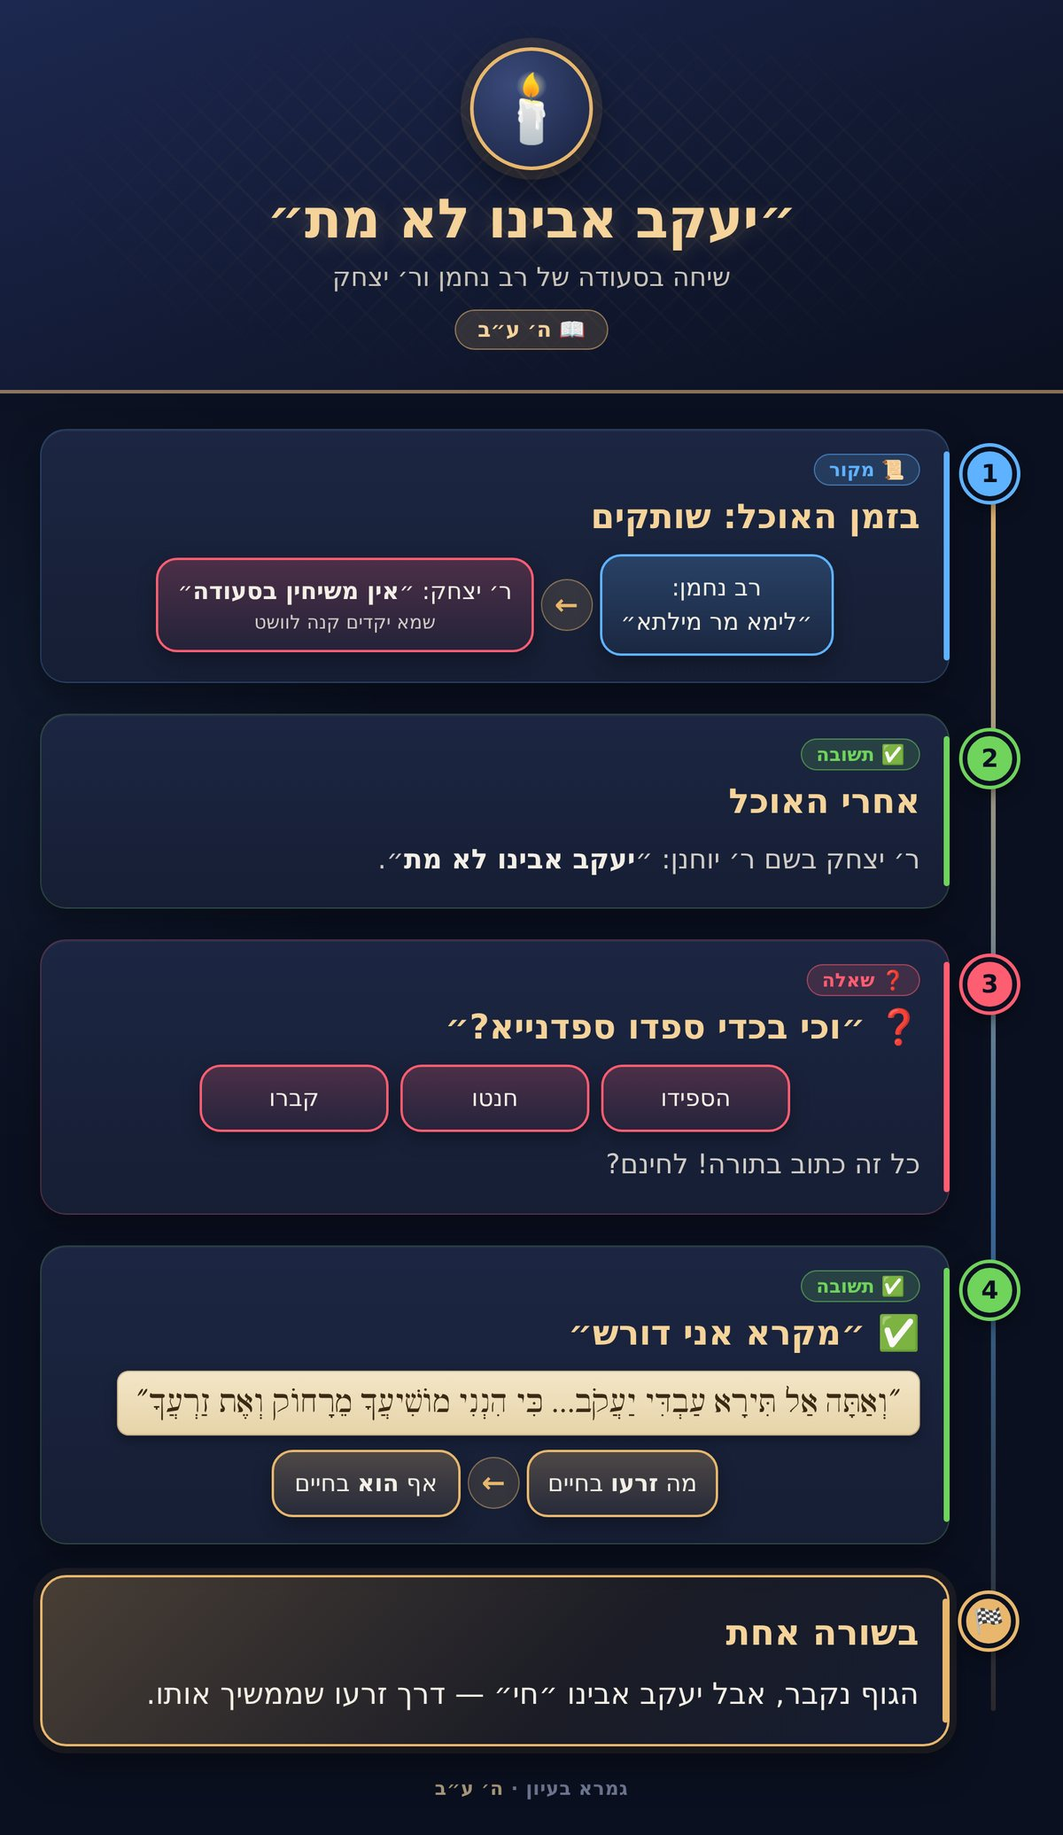
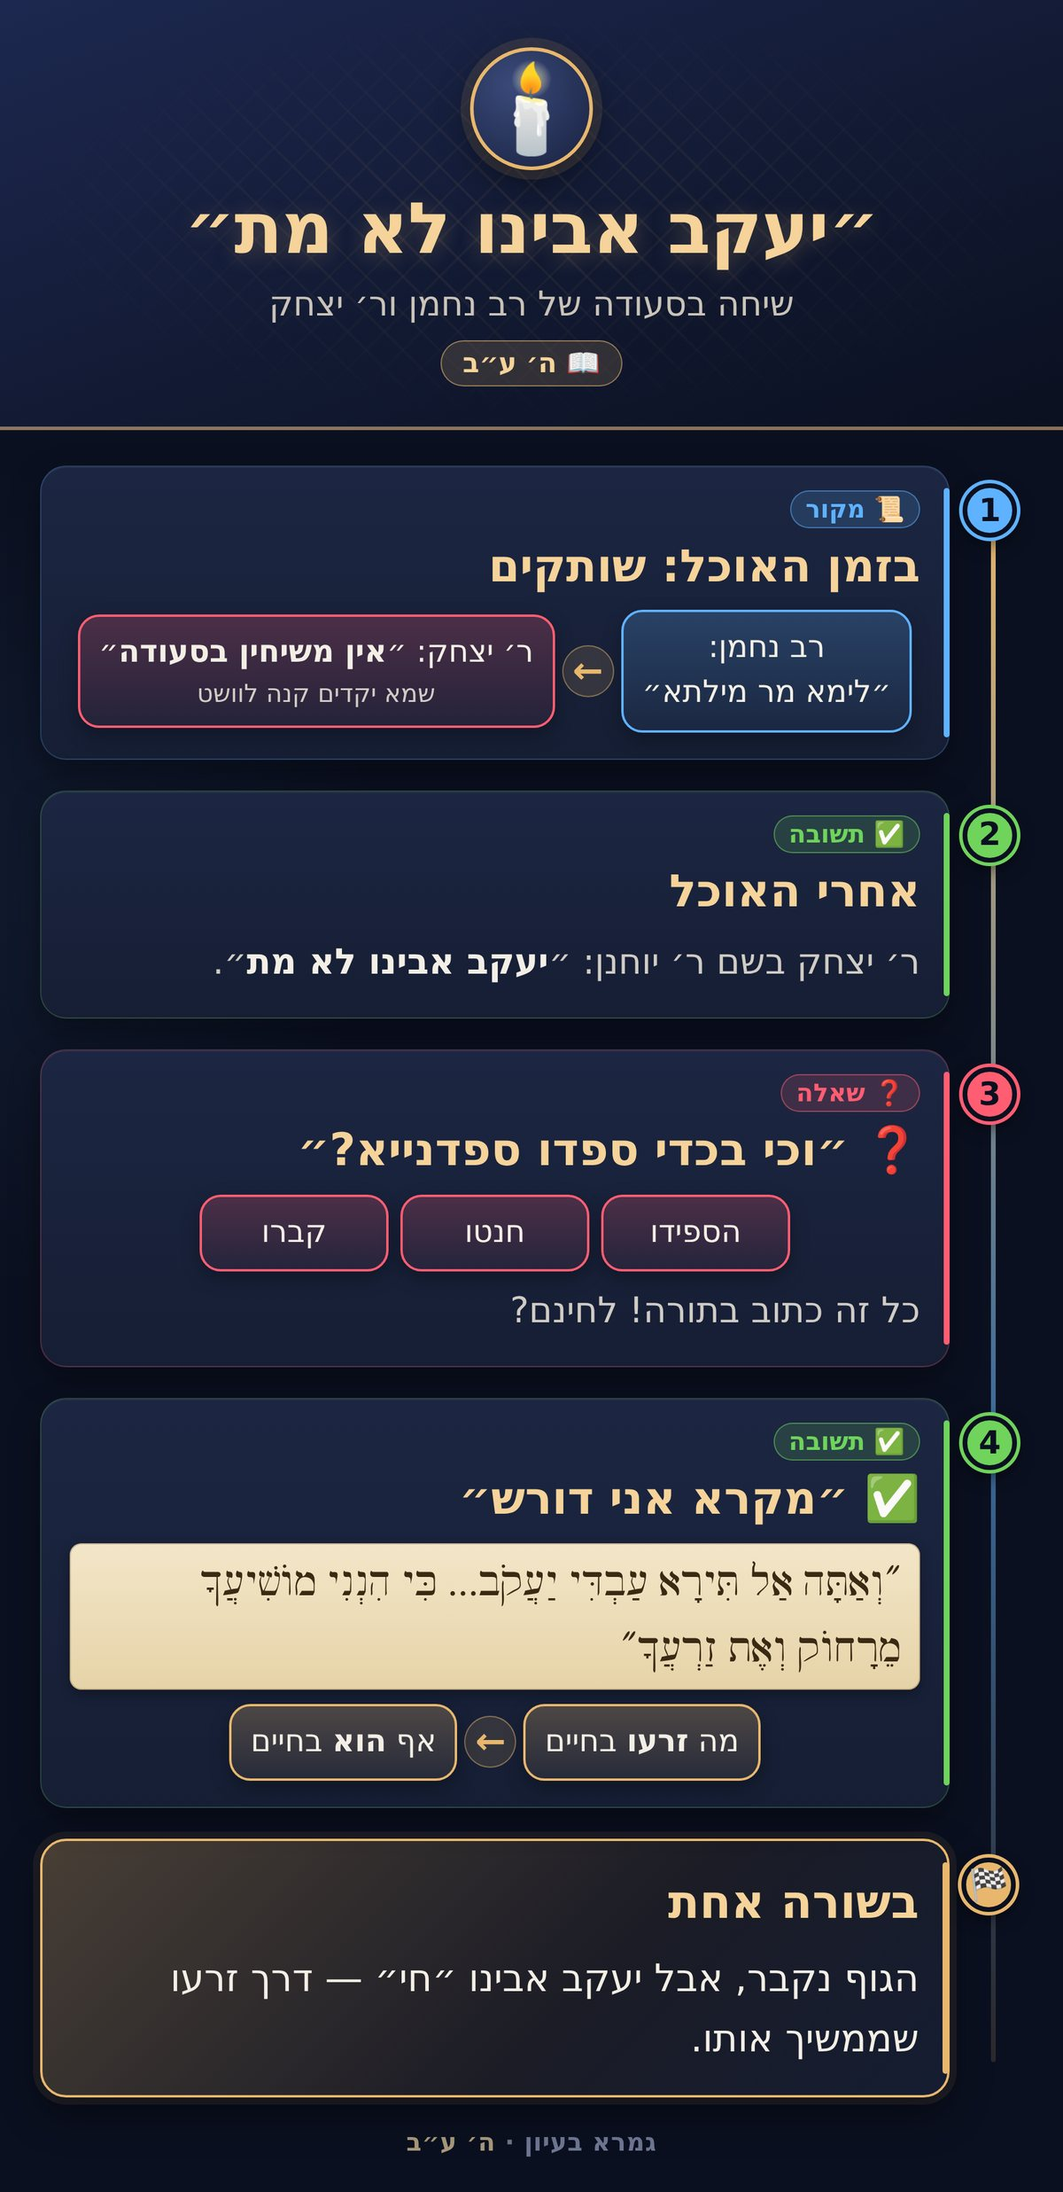
איורים: צביטה להגדלה ואותיות גדולות יותר
Claude-Session: https://claude.ai/code/session_01FELJGEZVtARXENqMAaEEkw

diff --git a/explain.js b/explain.js
@@ -20,12 +20,48 @@ function openExplain(n) {
     v.innerHTML = '<div class="ex-bar"><button type="button" class="ex-x" aria-label="סגור">✕</button><span class="ex-h"></span><button type="button" class="ex-z" aria-label="הגדלה">🔍</button></div><div class="ex-scroll"><img alt="הסבר מאויר"></div>';
     document.body.appendChild(v);
     v.querySelector('.ex-x').onclick = closeExplain;
-    v.querySelector('.ex-z').onclick = () => v.classList.toggle('zoom');
+    v.querySelector('.ex-z').onclick = () => exZoom(EXZ.z < 1.9 ? 2 : EXZ.z < 2.9 ? 3 : 1);
+    exPinchBind(v.querySelector('.ex-scroll'));
     document.addEventListener('keydown', e => { if (e.key === 'Escape' && v.classList.contains('on')) closeExplain(); });
   }
   v.querySelector('.ex-h').textContent = '🖼 ' + (EXPLAIN_TITLE[n] || 'הסבר מאויר');
   v.querySelector('img').src = `explain/${n}.jpg`;
-  v.classList.remove('zoom'); v.querySelector('.ex-scroll').scrollTop = 0;
+  exZoom(1); v.querySelector('.ex-scroll').scrollTop = 0;
   v.classList.add('on'); document.documentElement.classList.add('ex-open');
 }
 function closeExplain() { const v = document.getElementById('exView'); if (v) v.classList.remove('on'); document.documentElement.classList.remove('ex-open'); }
+
+// 🔍 הגדלה בצביטה (שתי אצבעות), הקשה כפולה, או הכפתור 🔍. רק התמונה גדלה, והנקודה שבין האצבעות נשארת במקומה.
+const EXZ = { z: 1 };
+function exZoom(z, cx, cy) {
+  const v = document.getElementById('exView'); if (!v) return;
+  const sc = v.querySelector('.ex-scroll'), img = sc.querySelector('img');
+  z = Math.max(1, Math.min(4, z));
+  const r = sc.getBoundingClientRect();
+  if (cx == null) { cx = r.left + r.width / 2; cy = r.top + r.height / 2; }
+  const px = sc.scrollLeft + (cx - r.left), py = sc.scrollTop + (cy - r.top), k = z / EXZ.z;
+  EXZ.z = z; img.style.width = (z * 100) + '%'; img.style.maxWidth = z > 1 ? 'none' : '';
+  sc.scrollLeft = px * k - (cx - r.left); sc.scrollTop = py * k - (cy - r.top);
+  v.classList.toggle('zoom', z > 1);
+  const b = v.querySelector('.ex-z'); if (b) b.textContent = z > 1 ? Math.round(z * 10) / 10 + '×' : '🔍';
+}
+function exPinchBind(sc) {
+  let d0 = 0, z0 = 1, lastTap = 0;
+  const dist = t => Math.hypot(t[0].clientX - t[1].clientX, t[0].clientY - t[1].clientY);
+  sc.addEventListener('touchstart', e => {
+    if (e.touches.length === 2) { d0 = dist(e.touches); z0 = EXZ.z; e.preventDefault(); }
+    else if (e.touches.length === 1) {
+      const now = Date.now(), t = e.touches[0];
+      if (now - lastTap < 300) { exZoom(EXZ.z > 1 ? 1 : 2.5, t.clientX, t.clientY); e.preventDefault(); lastTap = 0; } else lastTap = now;
+    }
+  }, { passive: false });
+  sc.addEventListener('touchmove', e => {
+    if (e.touches.length === 2 && d0) {
+      e.preventDefault();
+      const t = e.touches; exZoom(z0 * dist(t) / d0, (t[0].clientX + t[1].clientX) / 2, (t[0].clientY + t[1].clientY) / 2);
+    }
+  }, { passive: false });
+  sc.addEventListener('touchend', e => { if (e.touches.length < 2) d0 = 0; });
+  // מחשב: Ctrl + גלגלת (וגם צביטה במשטח מגע)
+  sc.addEventListener('wheel', e => { if (!e.ctrlKey) return; e.preventDefault(); exZoom(EXZ.z * (e.deltaY < 0 ? 1.15 : 1 / 1.15), e.clientX, e.clientY); }, { passive: false });
+}

diff --git a/theme.css b/theme.css
@@ -45,10 +45,9 @@ html { scrollbar-color: rgba(232,183,109,0.35) transparent; scrollbar-width: thi
   html.ex-open, html.ex-open body { overflow: hidden; }
   .ex-bar { display: flex; align-items: center; gap: 10px; padding: 10px 12px; border-bottom: 1px solid rgba(232,183,109,0.3); color: #f5d39a; font-weight: 800; font-size: 15px; }
   .ex-h { flex: 1; text-align: center; }
-  .ex-bar button { width: 40px; height: 40px; border-radius: 50%; border: 1px solid rgba(232,183,109,0.45); background: rgba(232,183,109,0.12); color: #f5d39a; font-size: 18px; cursor: pointer; }
-  .ex-scroll { flex: 1; overflow: auto; direction: ltr; -webkit-overflow-scrolling: touch; overscroll-behavior: contain; }
+  .ex-bar button { min-width: 40px; height: 40px; padding: 0 6px; border-radius: 20px; border: 1px solid rgba(232,183,109,0.45); background: rgba(232,183,109,0.12); color: #f5d39a; font-size: 18px; cursor: pointer; }
+  .ex-scroll { flex: 1; overflow: auto; direction: ltr; -webkit-overflow-scrolling: touch; overscroll-behavior: contain; touch-action: pan-x pan-y; }
   .ex-scroll img { display: block; width: 100%; max-width: 900px; margin: 0 auto; }
-  .ex-view.zoom .ex-scroll img { width: 200%; max-width: none; }
   .ex-view.zoom .ex-z { background: #e8b76d; color: #111829; }
 
 /* ♿ הגדרות נוחות (prefs.js) */

diff --git a/sw.js b/sw.js
@@ -2,7 +2,7 @@
 // קוד ונתונים (html/js/css): קודם מהרשת (תמיד הגרסה החדשה), ואם אין רשת — מהשמור.
 // תמונות (צילומי דף, איורים, אייקונים): קודם מהשמור, כי הן כמעט לא משתנות; מתעדכנות ברקע.
 // שינוי גדול במבנה, או שינוי של תמונה קיימת (חיתוך מחדש, שינוי מספור קטעים)? מעלים את VERSION — אחרת הטלפון יציג את התמונה הישנה מהשמור.
-const VERSION = 'v15';
+const VERSION = 'v16';
 const CORE = ['./', 'index.html', 'taanit.html', 'tree.html', 'words.html', 'theme.css', 'prefs.js', 'loader.js', 'explain.js',
   'data/common.js', 'data/taanit/index.js', 'data/taanit/words.js', 'manifest.webmanifest', 'icons/icon-192.png'];
 // רשימת הדפים הבנויים — מהמפה של המסכת (MAS), כך שאין צורך לעדכן כאן כשמוסיפים דף

diff --git a/tree.html b/tree.html
@@ -375,7 +375,7 @@
 <script src="data/common.js?v=1bb0ea65"></script>
 <script src="data/taanit/index.js?v=aab63d76"></script>
 <script src="loader.js?v=c847b339"></script>
-<script src="explain.js?v=f62dd961"></script>
+<script src="explain.js?v=621d9d7f"></script>
 <script>
 const ROLE = { m: ['📜', 'משנה / מקור'], q: ['❓', 'שאלה'], x: ['⚡', 'דחייה'], a: ['✅', 'תירוץ'], c: ['📌', 'מסקנה'], n: ['📖', 'סיפור / ראיה'], k: ['💡', 'הסבר'] };
 const COL = { m: '#5fb2ff', q: '#ff5d72', x: '#ff5d72', a: '#6fd35c', c: '#ffc94d', n: '#d7b26e', k: '#b296ff' };

diff --git a/taanit.html b/taanit.html
@@ -1887,7 +1887,7 @@
 <script src="data/common.js?v=1bb0ea65"></script>
 <script src="data/taanit/index.js?v=aab63d76"></script>
 <script src="loader.js?v=c847b339"></script>
-<script src="explain.js?v=f62dd961"></script>
+<script src="explain.js?v=621d9d7f"></script>
 <script>
 // =======================================================
 // PEREK DATA — מסכת תענית

diff --git a/.claude/tools/explain/build.py b/.claude/tools/explain/build.py
@@ -11,7 +11,11 @@ pages = dict(E)
 from exlib import upgrade_raw
 for f in glob.glob(os.path.join(H, 'raw', '*.html')): pages[os.path.basename(f)[:-5]] = upgrade_raw(open(f, encoding='utf-8').read())
 names = sys.argv[1:] or list(pages)
-for n in names: open(os.path.join(OUT, n + '.html'), 'w', encoding='utf-8').write(pages[n])
+import re
+# 🔠 אותיות גדולות יותר (המשתמש: ״זה קטן״): כל font-size בפיקסלים ×1.3, רוחב הדף נשאר 900
+FS = 1.3
+big = lambda h: re.sub(r'font-size:\s*(\d+(?:\.\d+)?)px', lambda m: f'font-size:{round(float(m.group(1)) * FS)}px', h)
+for n in names: open(os.path.join(OUT, n + '.html'), 'w', encoding='utf-8').write(big(pages[n]))
 js = """const { chromium } = require('playwright'); const [D, ...names] = process.argv.slice(2);
 (async () => { const b = await chromium.launch(); const p = await b.newPage({ viewport: { width: 900, height: 1000 }, deviceScaleFactor: 2 });
   for (const n of names) { await p.goto('file://' + D + '/' + n + '.html'); await p.waitForTimeout(300); await p.screenshot({ path: D + '/' + n + '.png', fullPage: true }); }

diff --git a/.claude/CLAUDE.md b/.claude/CLAUDE.md
@@ -52,7 +52,7 @@
    - **עץ הסוגיה** (`tree.html`): מפה גדולה שזזה (גרירה, צביטה, גלגלת), צמתים לפי תפקיד, וסדר ״תירוץ ראשון/שני״. למעלה יש פס ״📍 איפה אנחנו״: הדף, הסוגיה (N מתוך M), הקטע, על מה הסוגיה מדברת (SUGYA_TOPIC), המסלול מהשורש לשלב הנבחר, ותמונה קטנה של הדף עם המקום מסומן (DAF_SRC מחבילת הדף). לחיצה על צומת פותחת חלונית, ובה **הצילום עם המילים המודגשות, צמוד למעלה ותמיד גלוי** (`sh-pin`, ממורכז על הסימון ב־`shImgFocus`), ומתחתיו **סרגל לשוניות קבוע** (`toolbar`): 🎯 בתכלס (וגם ״מה עונים על זה״), 🧭 ההקשר, 📜 בגמרא (PUNCT), 🔤 מילה במילה (WBW+WDICT), 💡 מונחים (KEY_TERMS). הלשונית האחרונה שנבחרה נזכרת (`gemara:shtab`). החלונית היא **תריס בשלושה גבהים** (`sheetSize`): פס דק (peek), חצי מסך (half, ברירת מחדל) ומסך מלא (full). גוררים את הידית או את שורת הכותרת, החלונית עוקבת אחרי האצבע ונעצרת בגובה הקרוב. הנפה מהירה עוברת שלב. הקשה על הידית: פס→פתוח, חצי→מלא, מלא→חצי. יש כפתור ⬆/⬇ בכותרת. **התריס יורד לבד רק בגרירה אמיתית של העץ (24px ומעלה) או בצביטה, לא בנגיעה**. הגובה שנבחר נזכר (`gemara:shsize`). כשהחלונית פתוחה, פס ״איפה אנחנו״ מתכווץ לשורה אחת, ו־`centerOn` ממרכז את הצומת בשטח הגלוי שבין הפס לחלונית. הנתונים מגיעים מ־`TX` (loader.js), מחבילת הדף (data/<מסכת>/<ref>.js). יש גם כפתור לקטע ב־taanit. יש גם מצב ״סיפור הסוגיה״ עם אנימציה.
    - **👥 אנשים (״זרוע״ לכל אמורא)** (`people-data.js` → `PEOPLE[ref]`): המשתמש אמר ״כל מה שקשה לי זה שמות, ואם הם סותרים את עצמם״. בעץ יש פס **״👥 מי כאן״** שמתחלף לבד לפי הסוגיה שעל המסך. לחיצה על שם מדליקה רק את הצמתים שלו, ומציירת **זרוע**: קו בצבע שלו שעובר בין כל מה שאמר, ו־⚡ מכל משפט שלו אל הקושיה שפוגעת בו. נפתח **כרטיס**: 🧠 מה הוא סובר · 🗣 מה אמר (①②③, לחיצה קופצת לצומת, גם בדף אחר) · ⚡ מה מקשים עליו (״סותר את עצמו? ① מול ②״, תירוצים שנפלו ❌, והתשובה ✅/❌/ℹ) · 🏁 בשורה התחתונה. על כל צומת יש עיגול קטן עם ראשי התיבות של מי שמדבר, ו־⚡ על קושיה נגדו. בחלונית של צומת: שורה ״⚡ סתירה בדברי ר׳ יוחנן ② מול ①״ / ״✅ מיישב את...״, וכל שם בטקסט לחיץ (`linkNames`). בדף הלימוד, בכל כרטיס של קושיה: ״⚡ סתירה בדברי X: ① ״...״ ⟷ ② ״...״״, עם קישור ל־`tree.html#ref@id`.
    - **🖥 גרסת מחשב** (מ־1100px; בדף הבית מ־1000px): בדף הלימוד הקטע הוא grid — **הצילום צמוד בטור הימני** (sticky, כמעט כל גובה המסך) וההסבר בטור השמאלי. `isDesk()`. החץ יוצא מהקצה הימני של הכרטיס, עובר ברווח שבין הטורים ונכנס לצילום (`drawArrow`, `side`). קו הקריאה של scrollSpy = 36% מגובה המסך. בעץ, החלונית היא **לוח צד משמאל** (רוחב min(500px,40vw), בלי תריס/גבהים), ו־`centerOn`/`personFit` ממרכזים בשטח שמימין לה (`sideW()`). דף הבית: המסכתות זו ליד זו. **כל שינוי לטלפון — לבדוק גם ב־1440×900.**
-   - **🖼 הסבר מאויר לכל סוגיה מסובכת** (המשתמש: ״לכל סוגיה מסובכת תבנה את הדבר הזה״): תמונה ארוכה בסגנון כהה עם שלבים ממוספרים (שאלה אדום, תשובה ירוק, דחייה כתום, מקור כחול), צירי זמן (שבח זהב / בקשה כחול), ״מראה״ של שני צדדים, טבלאות, שרשרת קושיות ו״בשורה אחת״. הקבצים ב־`explain/<שם>.jpg`. המיפוי לקטעים ב־`explain-data.js` (`EXPLAIN['ref:קטע']`, `EXPLAIN_TITLE`). בדף הלימוד יש כרטיס ״🖼 הסבר מאויר״ בראש הקטע (`explainCard`), ובעץ הוא בחלונית מתחת ללשוניות, ושם מוצגים כל האיורים של הסוגיה (אותו שורש, `explainTree`). בעץ עצמו: ליד הצומת הראשון של כל סוגיה יש כפתור ״🖼 איור״ (או ״איור ×N״, שפותח תפריט בחירה `exPick`), ובפס ״📍 איפה אנחנו״ יש כפתורים לאיורים של הסוגיה שעל המסך (`exChips`, `explainNames`). לחיצה פותחת מסך מלא עם 🔍 (`openExplain`).
+   - **🖼 הסבר מאויר לכל סוגיה מסובכת** (המשתמש: ״לכל סוגיה מסובכת תבנה את הדבר הזה״): תמונה ארוכה בסגנון כהה עם שלבים ממוספרים (שאלה אדום, תשובה ירוק, דחייה כתום, מקור כחול), צירי זמן (שבח זהב / בקשה כחול), ״מראה״ של שני צדדים, טבלאות, שרשרת קושיות ו״בשורה אחת״. הקבצים ב־`explain/<שם>.jpg`. המיפוי לקטעים ב־`explain-data.js` (`EXPLAIN['ref:קטע']`, `EXPLAIN_TITLE`). בדף הלימוד יש כרטיס ״🖼 הסבר מאויר״ בראש הקטע (`explainCard`), ובעץ הוא בחלונית מתחת ללשוניות, ושם מוצגים כל האיורים של הסוגיה (אותו שורש, `explainTree`). בעץ עצמו: ליד הצומת הראשון של כל סוגיה יש כפתור ״🖼 איור״ (או ״איור ×N״, שפותח תפריט בחירה `exPick`), ובפס ״📍 איפה אנחנו״ יש כפתורים לאיורים של הסוגיה שעל המסך (`exChips`, `explainNames`). לחיצה פותחת מסך מלא עם 🔍 (`openExplain`). **צביטה בשתי אצבעות מגדילה רק את האיור** (`exPinchBind`/`exZoom`, עד ×4, הנקודה שבין האצבעות נשארת במקומה), הקשה כפולה = ×2.5/חזרה, 🔍 = 1→2→3→1, ובמחשב Ctrl+גלגלת. **האותיות באיורים גדולות פי 1.3** (המשתמש: ״זה קטן״): `build.py` של האיורים מכפיל כל `font-size` ב־`FS`.
    - **🎨 צבעים (נוב׳ 2026):** המשתמש ביקש ״צבע יותר טוב״. עברנו מחום־קלף לכחול־לילה עם זהב: רקע `--ink #0e1322`, `--ink-2 #151c30`, טקסט `#f3efe6`, עמום `#9aa4ba`, הזהב (`#e8b76d`/`#f5d39a`) וצבעי התפקידים נשארו. הסקריפט שהחליף את הצבעים הישנים מופיע בהיסטוריה (מיפוי hex). גם האיורים נבנו מחדש בצבעים האלה. `meta theme-color` בכל דף. **צבע רקע חדש — רק מתוך הפלטה הזו.**
    - **📑 כל הקטעים + 🔠 גודל אותיות** (בדף הלימוד): בפס הניווט התחתון יש כפתור ״📑 קטע N/M · כל הקטעים״ (`openToc`), שפותח רשימה של כל הקטעים בדף (תגית, כותרת, מספר שלבים, 🖼 אם יש איור), והקשה קופצת לקטע. בראש הרשימה: א−/א+ לגודל האותיות (`--fz`, חמש דרגות, `gemara:fz`), שמשפיע על הכרטיסים, בתכלס, ההקשר, הגמרא המפוסקת והשורה התחתונה.
    - **⭐ שמורים:** בפינה של כל כרטיס יש ☆. לחיצה שומרת את השלב (`gemara:stars`, עד 200), והוא מופיע בראש ״📑 כל הקטעים״ תחת ״⭐ השמורים שלי״, מכל הדפים. הקשה קופצת לשלב (`goStar` → `goToRef` + `goKey`). ״המשך מאיפה שעצרת״ בדף הבית מקשר עכשיו ישירות לדף ולקטע (`#ref-קטע`).
